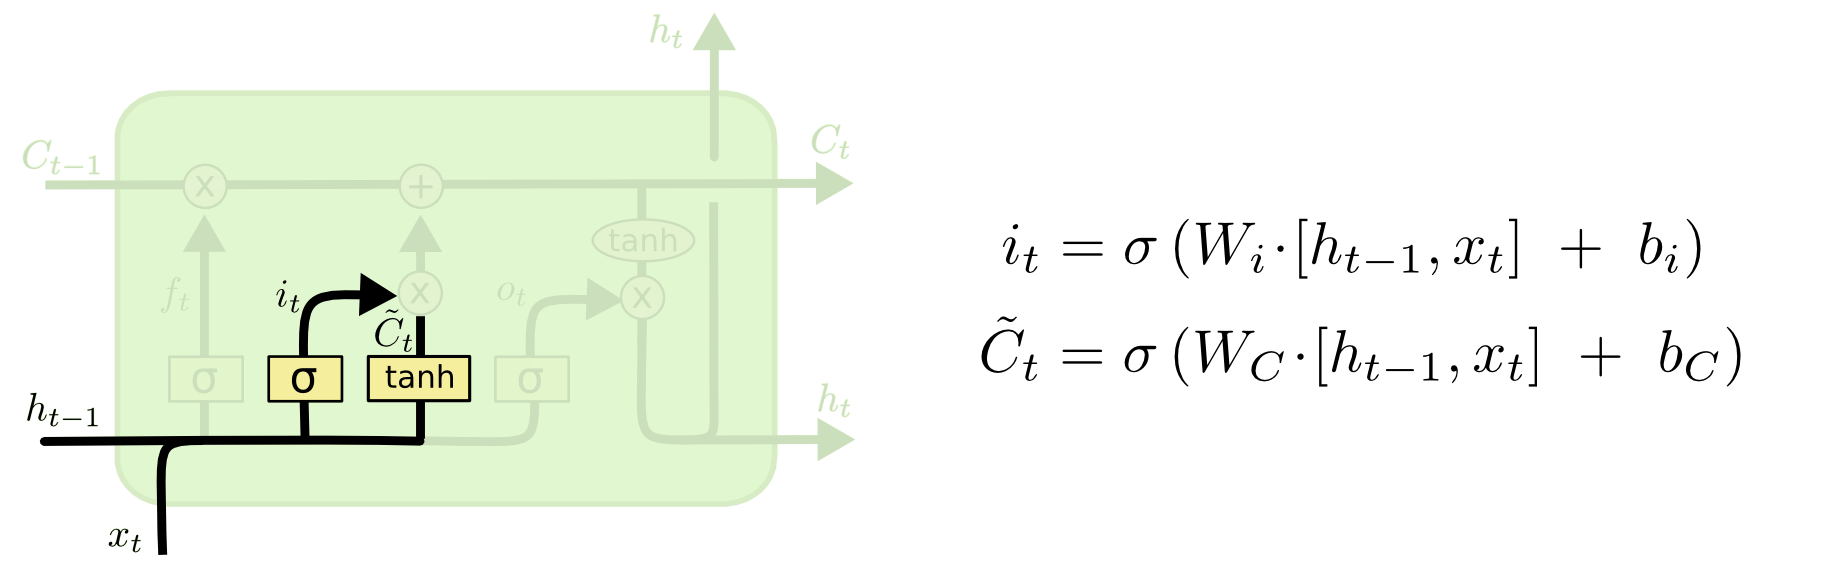
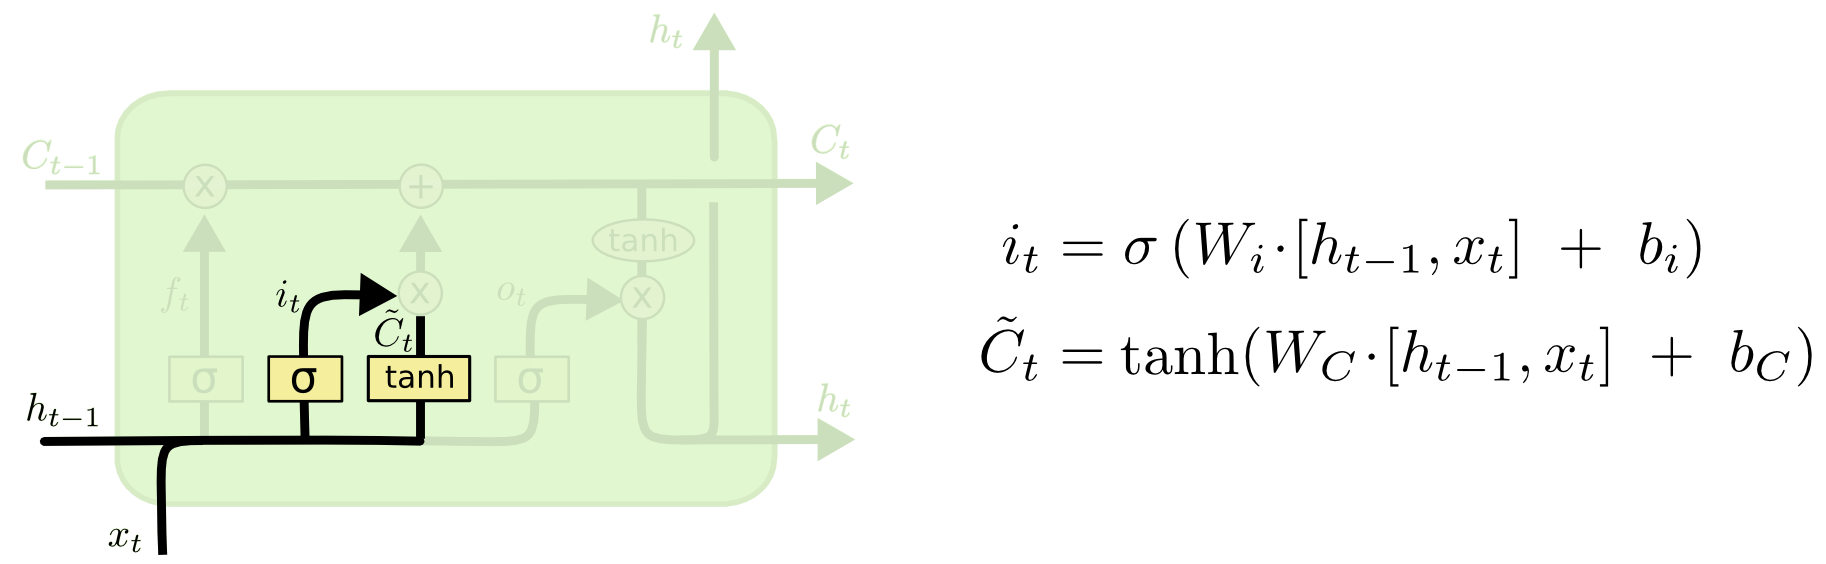
fix two typos

Changed region(s): [[0.5931, 0.5727, 0.9989, 0.6933]]

diff --git a/posts/2015-08-Understanding-LSTMs/index.html b/posts/2015-08-Understanding-LSTMs/index.html
@@ -168,7 +168,7 @@ To be a bit more explicit, we can split up each line into lines carrying individ
 <p>An LSTM has three of these gates, to protect and control the cell state.</p>
 <h2 id="step-by-step-lstm-walk-through">Step-by-Step LSTM Walk Through</h2>
 <p>The first step in our LSTM is to decide what information we’re going to throw away from the cell state. This decision is made by a sigmoid layer called the “forget gate layer.” It looks at <span class="math">\(h_{t-1}\)</span> and <span class="math">\(x_t\)</span>, and outputs a number between <span class="math">\(0\)</span> and <span class="math">\(1\)</span> for each number in the cell state <span class="math">\(C_{t-1}\)</span>. A <span class="math">\(1\)</span> represents “completely keep this” while a <span class="math">\(0\)</span> represents “completely get rid of this.”</p>
-<p>Let’s go back to our example of a language model trying to predict the next word base on all the previous ones. In such a problem, the cell state might include the gender of the present subject, so that the correct pronouns can be used. When we see a new subject, we want to forget the gender of the old subject.</p>
+<p>Let’s go back to our example of a language model trying to predict the next word based on all the previous ones. In such a problem, the cell state might include the gender of the present subject, so that the correct pronouns can be used. When we see a new subject, we want to forget the gender of the old subject.</p>
 <div style="width:90%; margin-left:auto; margin-right:auto; margin-bottom:8px; margin-top:8px;">
 <img src="img/LSTM3-focus-f.png" alt>
 </div>
